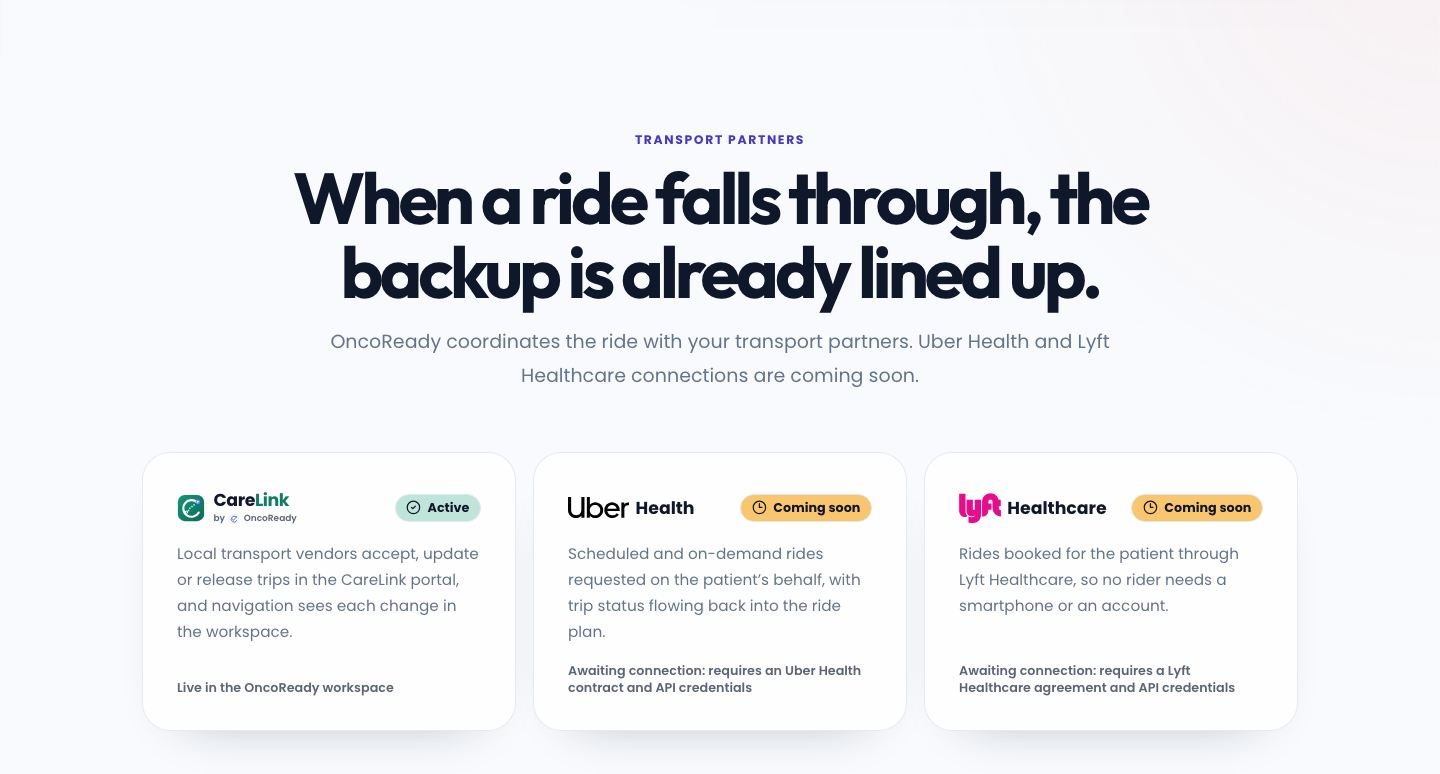
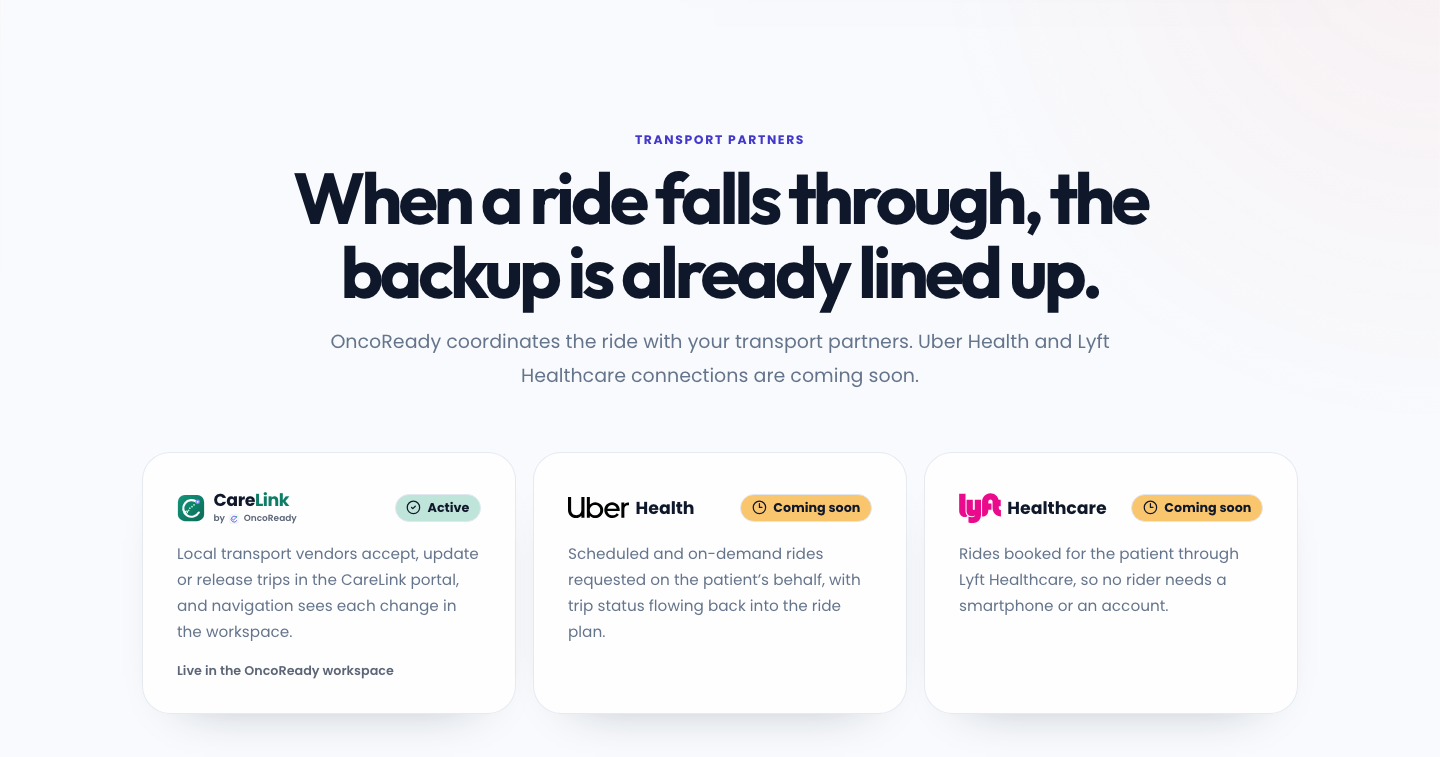
fix(LAND-002): drop the requirements footer from Uber Health and Lyft cards

diff --git a/frontend/src/components/LandingPage.tsx b/frontend/src/components/LandingPage.tsx
@@ -125,7 +125,7 @@ const pricingPlans = [
 type PartnerStatus = 'ACTIVE' | 'COMING_SOON';
 
 // Uber Health and Lyft Healthcare are not connected yet: their cards say so and nothing here calls either service.
-const transportPartners: { name: string; status: PartnerStatus; copy: string; note: string }[] = [
+const transportPartners: { name: string; status: PartnerStatus; copy: string; note?: string }[] = [
   {
     name: 'CareLink by OncoReady',
     status: 'ACTIVE',
@@ -136,13 +136,11 @@ const transportPartners: { name: string; status: PartnerStatus; copy: string; no
     name: 'Uber Health',
     status: 'COMING_SOON',
     copy: 'Scheduled and on-demand rides requested on the patient\u2019s behalf, with trip status flowing back into the ride plan.',
-    note: 'Awaiting connection: requires an Uber Health contract and API credentials',
   },
   {
     name: 'Lyft Healthcare',
     status: 'COMING_SOON',
     copy: 'Rides booked for the patient through Lyft Healthcare, so no rider needs a smartphone or an account.',
-    note: 'Awaiting connection: requires a Lyft Healthcare agreement and API credentials',
   },
 ];
 
@@ -401,7 +399,7 @@ export const LandingPage: React.FC<LandingPageProps> = ({
               </div>
               <h3 className="sr-only">{partner.name}</h3>
               <p>{partner.copy}</p>
-              <div className="mt-auto pt-4 text-xs font-semibold text-muted-fg">{partner.note}</div>
+              {partner.note && <div className="mt-auto pt-4 text-xs font-semibold text-muted-fg">{partner.note}</div>}
             </article>
           ))}
         </div>

diff --git a/frontend/tests/access.test.tsx b/frontend/tests/access.test.tsx
@@ -43,7 +43,7 @@ describe('ACCESS-001 prepared workspace entry', () => {
     expect(partners.getByRole('img', { name: 'Uber' })).toBeDefined();
     expect(partners.getByRole('img', { name: 'Lyft' })).toBeDefined();
     expect(partners.getAllByText('Coming soon')).toHaveLength(2);
-    expect(partners.getAllByText(/^Awaiting connection/)).toHaveLength(2);
+    expect(partners.queryByText(/Awaiting connection/)).toBeNull();
 
     const copy = screen.getByTestId('transport-partners').textContent || '';
     expect(copy).not.toMatch(/Connected/);

diff --git a/docs/features/LAND-002.md b/docs/features/LAND-002.md
@@ -9,14 +9,14 @@ The public landing page has a **Transport partners** section between the Louisia
 | Card | Badge | Footer |
 | --- | --- | --- |
 | CareLink by OncoReady (endorsed lockup) | Active | Live in the OncoReady workspace |
-| Uber Health (Uber logo) | Coming soon | Awaiting connection: requires an Uber Health contract and API credentials |
-| Lyft Healthcare (Lyft logo) | Coming soon | Awaiting connection: requires a Lyft Healthcare agreement and API credentials |
+| Uber Health (Uber logo) | Coming soon | none |
+| Lyft Healthcare (Lyft logo) | Coming soon | none |
 
 Heading: "When a ride falls through, the backup is already lined up." The lede says OncoReady coordinates the ride with transport partners and that the Uber Health and Lyft Healthcare connections are coming soon.
 
 ## Approved decisions
 
-1. Uber Health and Lyft Healthcare both read **Coming soon · Awaiting connection**. The owner reports a Lyft relationship is in progress.
+1. Uber Health and Lyft Healthcare both show only a **Coming soon** badge, with no requirements footer. The owner reports a Lyft relationship is in progress.
 2. The official Lyft logo is used. `frontend/public/brands/lyft-logo.svg` comes from Wikimedia Commons `File:Lyft_logo.svg` (Lyft press kit, listed as public domain). The owner accepted the trademark use.
 3. The section appears only on the landing page. The Transportation Workspace provider list is unchanged, so Lyft is not added there.
 4. No navbar link was added; the header is unchanged.
@@ -30,7 +30,7 @@ Heading: "When a ride falls through, the backup is already lined up." The lede s
 ## Verification
 
 - `npm run build` passes.
-- 114 component tests pass, including a new LAND-002 test in `tests/access.test.tsx`: three cards in order Active, Coming soon, Coming soon; both logos render; two "Awaiting connection" notes; no "Connected" text.
+- 114 component tests pass, including a new LAND-002 test in `tests/access.test.tsx`: three cards in order Active, Coming soon, Coming soon; both logos render; no "Awaiting connection" footer; no "Connected" text.
 - 14 Playwright tests pass. A separate browser check recorded zero requests to Uber or Lyft hosts.
 - Screenshots: `frontend/artifacts/LAND-002-partners-desktop.png` and `LAND-002-partners-mobile.png`.
 

diff --git a/docs/design/DESIGN_SYSTEM.md b/docs/design/DESIGN_SYSTEM.md
@@ -147,7 +147,7 @@ Leaflet maps are illustrative training-environment routing (Louisiana corridor).
 
 The CareLink vendor portal (RIDE-002, RIDE-003) is the one approved brand exception: **CareLink by OncoReady**, an endorsed sub-brand. Its mark (`public/carelink-mark.svg`) reuses the OncoReady continuity loop with a dotted route to an indigo node. Its full-page shell (dark teal top bar, CareLink footer, no OncoReady header or footer) and `carelink-btn` styles apply only inside `/carelink`. Always show the endorsement (`CareLinkMark endorsed`) where CareLink appears beside OncoReady.
 
-The landing **Transport partners** section ([LAND-002](../features/LAND-002.md)) reuses the business-card grid: CareLink carries a mint **Active** chip, while Uber Health and Lyft Healthcare carry sun **Coming soon** chips and an "Awaiting connection" footer. Partner logos (`public/brands/uber-logo.svg`, `public/brands/lyft-logo.svg`) appear only in their own cards and never recolor OncoReady surfaces.
+The landing **Transport partners** section ([LAND-002](../features/LAND-002.md)) reuses the business-card grid: CareLink carries a mint **Active** chip, while Uber Health and Lyft Healthcare carry sun **Coming soon** chips. Partner logos (`public/brands/uber-logo.svg`, `public/brands/lyft-logo.svg`) appear only in their own cards and never recolor OncoReady surfaces.
 
 ## Copy punctuation
 
